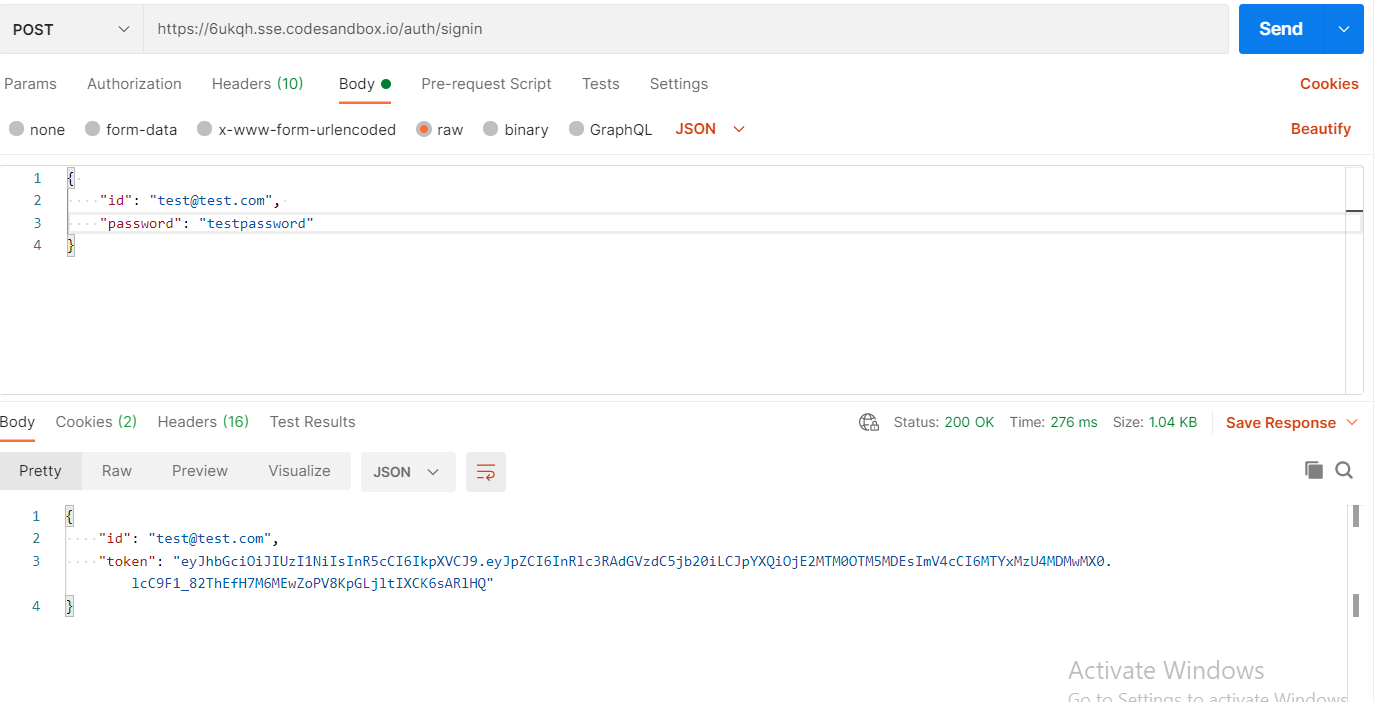
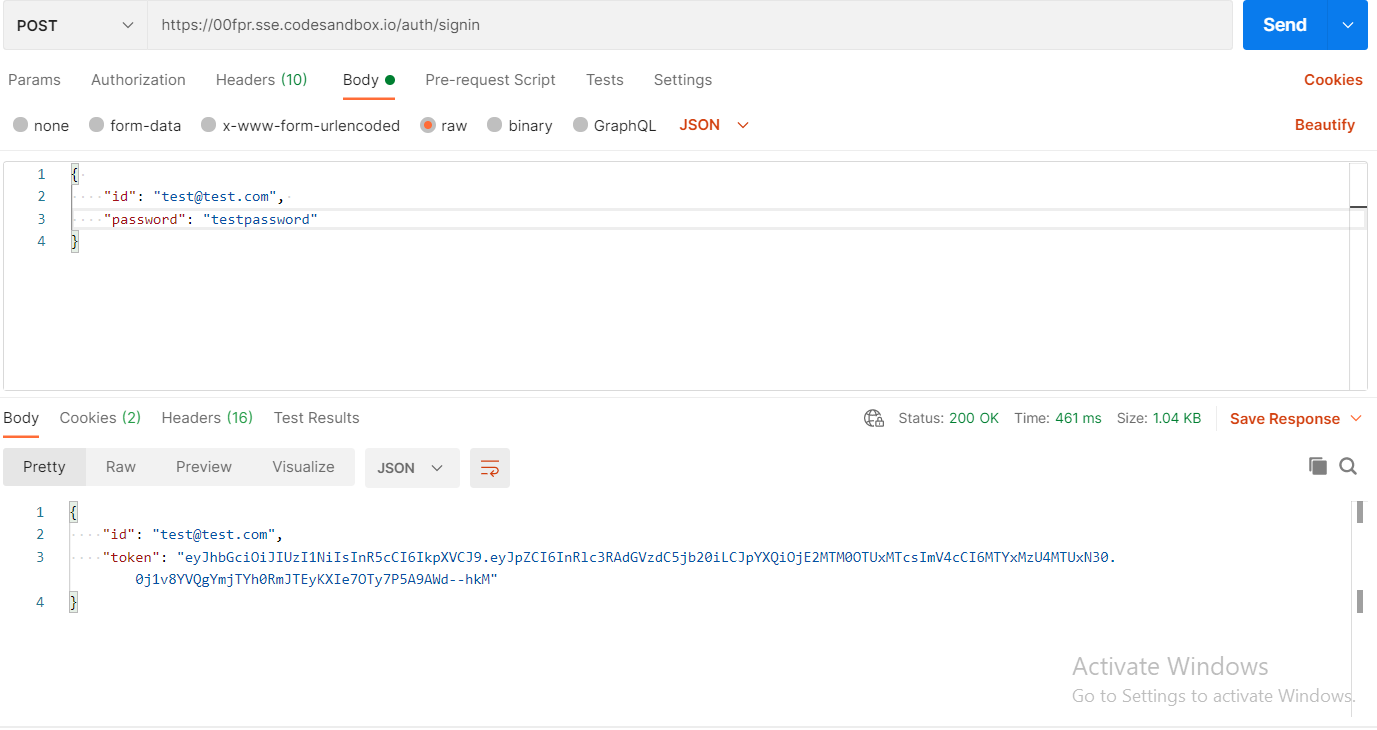
update readme and images

diff --git a/README.md b/README.md
@@ -1,7 +1,7 @@
 ## Sandbox URL
 
 ```
-https://6ukqh.sse.codesandbox.io/
+https://00fpr.sse.codesandbox.io/
 ```
 
 ## To start node server
